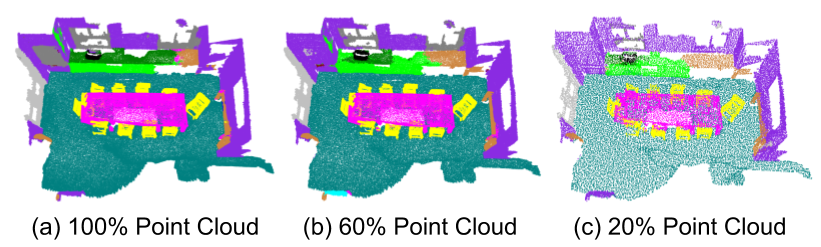
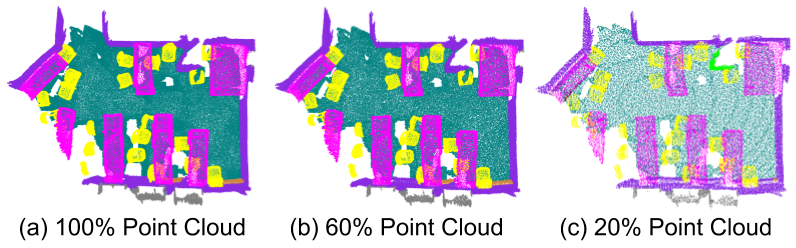
main body done

diff --git a/Matlab/grid_improve_accuracy.m b/Matlab/grid_improve_accuracy.m
@@ -1,0 +1,49 @@
+% grid improve accuracy
+
+clear, clc
+
+iou_result = [];
+
+models = {
+    'scannet_m8_rep1_residualFalse-000000470';
+    'scannet_m8_rep2_residualFalse-000000560';
+    'scannet_m8_rep2_residualTrue-000000530';
+    'scannet_m16_rep1_residualFalse-000000530';
+    'scannet_m16_rep2_residualFalse-000000570';
+    'scannet_m16_rep2_residualTrue-000000650';
+};
+
+for i = 1:length(models)
+    main_dir = strcat('/home/dtc/MyGit/dtc-scannet-sparseconvnet/Result/pmserver/', models{i}, '/Backup/');
+    f_grid = strcat(main_dir, 'grid_result_main.csv');
+    f_random = strcat(main_dir, 'random_result_main.csv');
+    data_random = csvread(f_random, 1, 0);
+    random_iou = data_random(end, 3);
+    data_grid = csvread(f_grid, 1, 0);
+    keep_ratio = data_grid(:, 1);
+    iou = data_grid(:, 3);
+    iou_result = [iou_result; [iou > random_iou]'];
+end
+
+iou_result = logical(iou_result);
+
+figure(1), clf, hold on
+set(gcf, 'position', [400, 600, 1100, 500])
+for i = 1:length(models)
+    keep_ratio_larger = keep_ratio(iou_result(i, :));
+    keep_ratio_else = keep_ratio(~iou_result(i, :));
+    h = plot(keep_ratio_larger, (length(models)-i)*ones(size(keep_ratio_larger)), 'o', 'markersize', 14);
+    set(h, 'markerfacecolor', get(h, 'color'))
+    plot(keep_ratio_else, (length(models)-i)*ones(size(keep_ratio_else)), 'x', 'markersize', 14)
+end
+h = zeros(2, 1);
+h(1) = plot(NaN, NaN, 'kx', 'markersize', 14, 'markerfacecolor', 'k');
+h(2) = plot(NaN, NaN, 'ko', 'markersize', 14, 'markerfacecolor', 'k');
+legend(h, 'Worse than full point clouds', 'Better than full point clouds', 'orientation', 'horizontal')
+yticks(0:1:5)
+ylim([-0.6, 6.3])
+yticklabels({'Model 6', 'Model 5', 'Model 4', 'Model 3', 'Model 2', 'Model 1'})
+xlabel('Point Cloud Size (%)')
+box on
+set(gca, 'ygrid', 'on', 'fontsize', 22)
+hold off

diff --git a/Matlab/random_grid_hierarchy_compare.m b/Matlab/random_grid_hierarchy_compare.m
@@ -38,16 +38,17 @@ iou_loss_grid = max_iou - iou_grid;
 iou_loss_hierarchy = max_iou - iou_hierarchy;
 
 figure(1), clf, hold on
+set(gcf, 'position', [400, 600, 900, 500])
 plot(keep_ratio_random, iou_loss_random, '-*', 'linewidth', 3)
 plot(keep_ratio_grid, iou_loss_grid, '-o', 'linewidth', 3)
 plot(keep_ratio_hierarchy, iou_loss_hierarchy, '-s', 'linewidth', 3)
-ylim([-0, 60])
+ylim([0, 60])
 grid on
 box on
 legend('Random Simplification', 'Grid Simplification', 'Hierarchy Simplification')
 set(gca, 'fontsize', 22)
 xlabel('Point Cloud Size (%)')
-ylabel('IOU Loss (%)')
+ylabel('IOU Loss')
 hold off
 
 

diff --git a/Validation/valid_one_point_cloud.py b/Validation/valid_one_point_cloud.py
@@ -19,15 +19,15 @@ import sys
 scannet_dir = '/home/dtc/Data/ScanNet'
 
 # trained model in ../Model/
-model_name = "scannet_m16_rep2_residualTrue-000000530.pth"
+model_name = "scannet_m16_rep2_residualTrue-000000650.pth"
 
 # Original, Random, Grid, Hierarchy
-data_type = "Hierarchy"
+data_type = "Grid"
 
 # omit if data_type is Original
 keep_ratio = 20
 
-pth_filename = 'scene0011_00_vh_clean_2.pth'
+pth_filename = 'scene0015_00_vh_clean_2.pth'
 
 # --- end of configuration ---
 

diff --git a/Validation/valid_view_point_cloud.py b/Validation/valid_view_point_cloud.py
@@ -11,7 +11,7 @@ import pptk
 # ------ Configurations ------
 
 # path to pth file
-pth_file = "../tmp/scene0011_00_vh_clean_2.pth.Hierarchy.20"
+pth_file = "../tmp/scene0015_00_vh_clean_2.pth.Grid.20"
 
 show_gt = False  # show groundtruth or not
 
